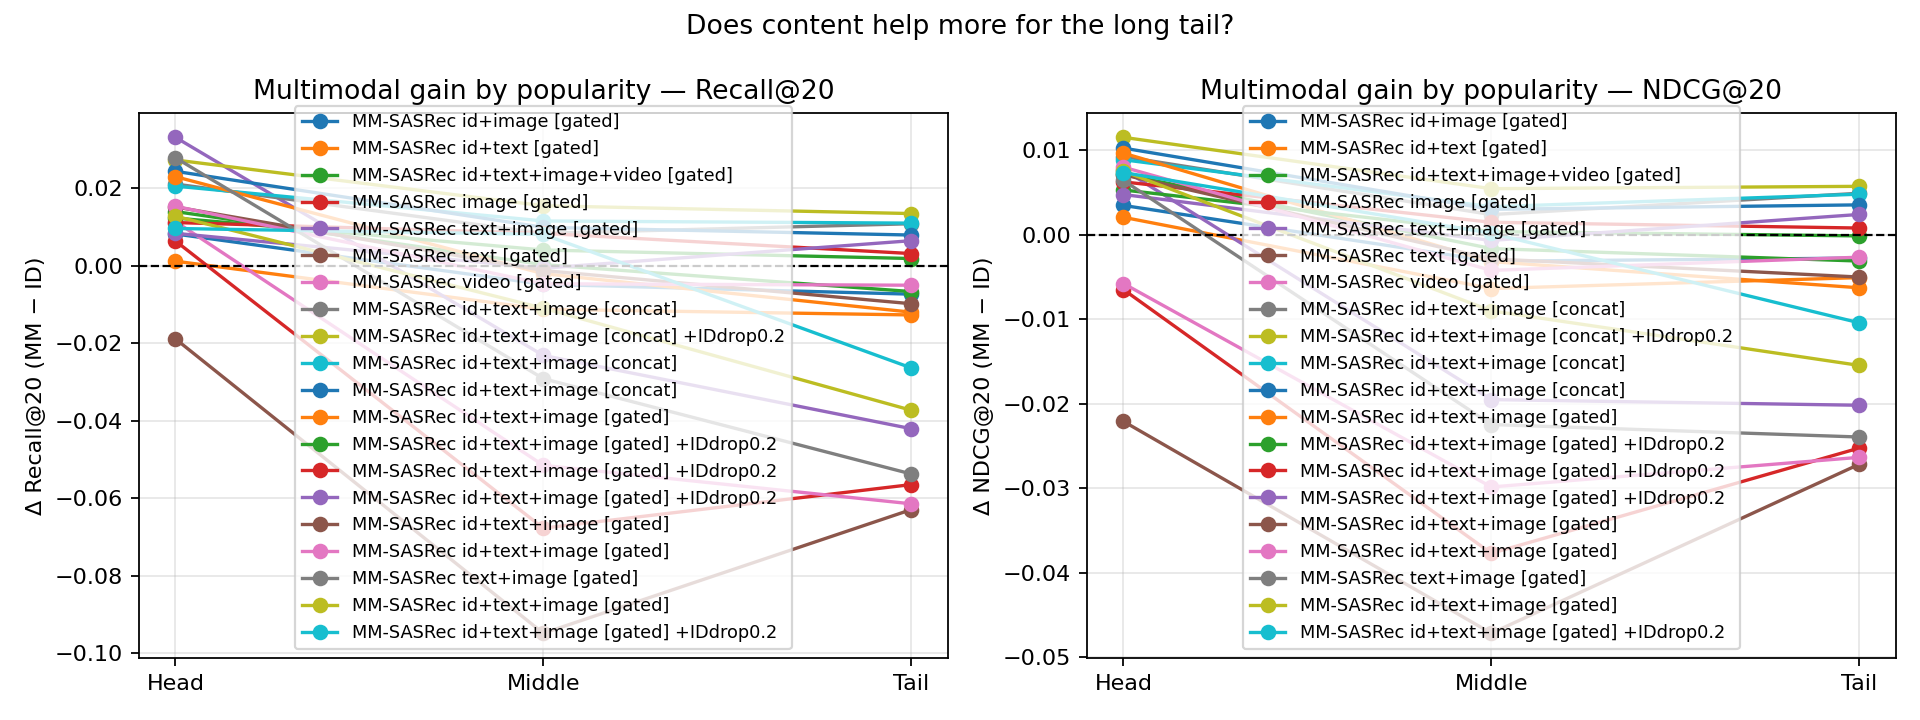
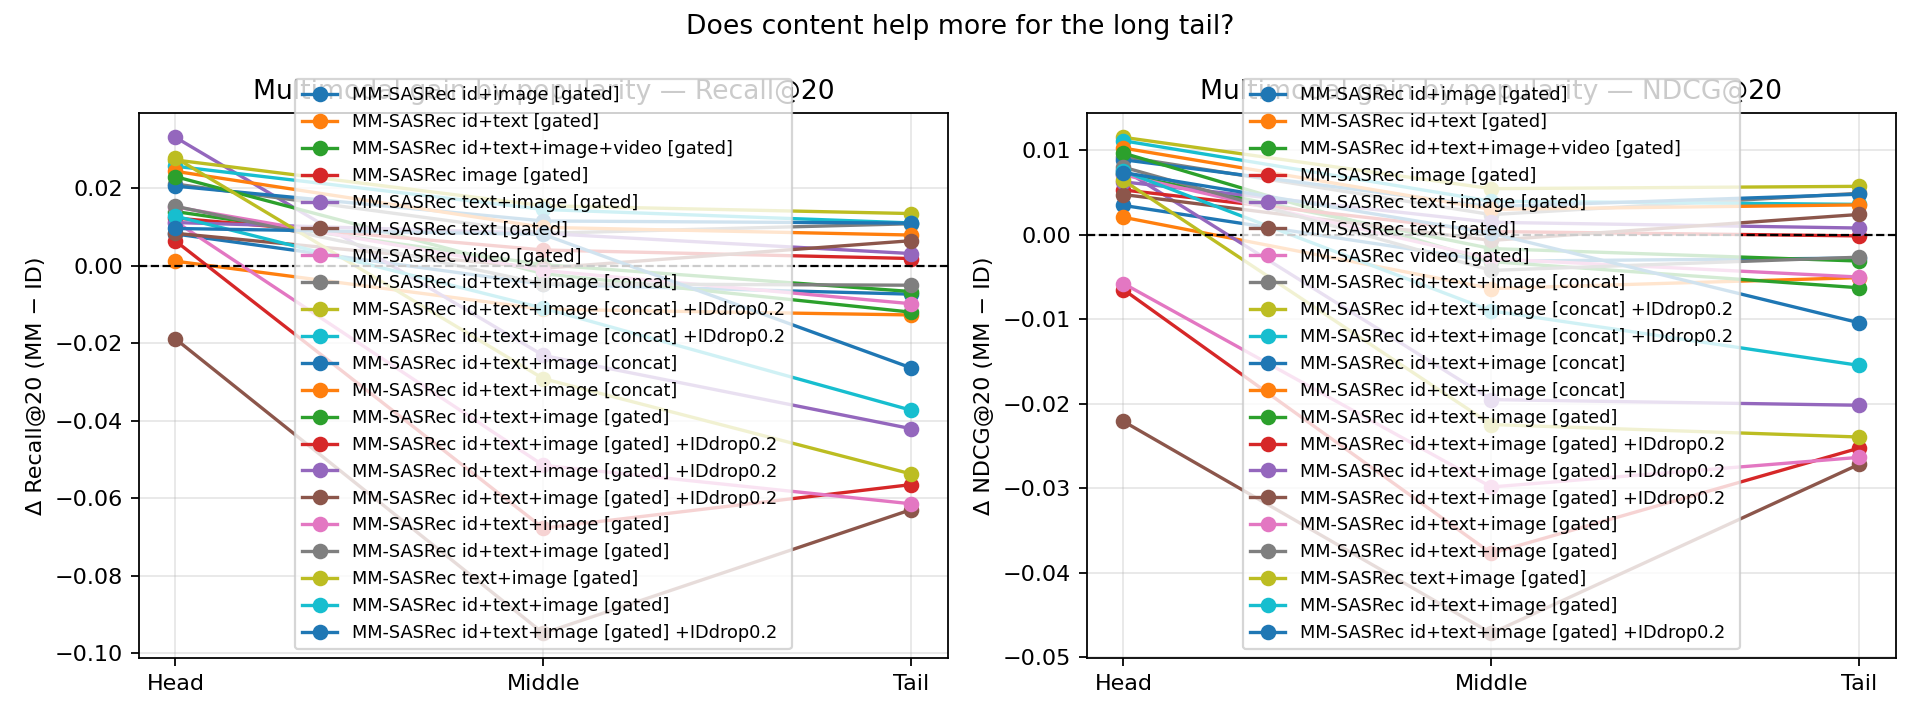
Land the concat multi-seed batch and close the phase's tables
concat is now a 3-seed replicate (0.1393 ± 0.0003, was 0.1390 from one run)
and concat+ID-dropout 0.2 has 2 seeds (0.1429 ± 0.0009); the seed-3407 run
of the latter was stopped mid-training on request and is in no table, which
the README's #seeds column and PROGRESS state rather than hide.

diff --git a/PROGRESS.md b/PROGRESS.md
@@ -9,17 +9,20 @@ The project is in a **correctness-audit / re-run phase**. Two training-side bugs
 were found and fixed, every earlier run was quarantined as legacy, a provenance
 and aggregation guard layer was added, and the **main experiment matrix, the
 modality/fusion ablation and the cold-item matrix have all been re-run to
-completion on the fixed code** (33 finished runs spanning ten commits whose
+completion on the fixed code** (35 finished runs spanning twelve commits whose
 result-determining code a human has verified to be equivalent, declared in
 `analysis/code_equivalence.json`; see below).
 
 Numbers in the README are generated from `results/tables/*.csv`; numbers in
 `results/` are produced only by runs that carry a `run_manifest.json`.
 
-Headline result on the fixed code (test Recall@20, 100 000 evaluated users,
-3 seeds each): Popular `0.0036` < BPR-MF `0.0334` < SASRec `0.1224 ± 0.0020` <
-SASRec+item-dropout 0.2 `0.1283 ± 0.0009` < MM-SASRec gated+ID-dropout 0.2
-`0.1314 ± 0.0006` < MM-SASRec concat+ID-dropout 0.2 `0.1438` (1 seed).
+Headline result on the fixed code (test Recall@20, 100 000 evaluated users):
+Popular `0.0036 ± 0.0000` < BPR-MF `0.0331 ± 0.0003` < SASRec `0.1224 ± 0.0020` <
+SASRec+item-dropout 0.2 `0.1283 ± 0.0009` < MM-SASRec gated `0.1267 ± 0.0007` <
+gated+ID-dropout 0.2 `0.1314 ± 0.0006` < concat `0.1393 ± 0.0003` <
+concat+ID-dropout 0.2 `0.1429 ± 0.0009` — every number a 3-seed mean except
+concat+ID-dropout 0.2, which has 2 seeds because the third run was stopped on
+purpose (see the experiment table).
 
 ## Completed
 
@@ -139,10 +142,14 @@ SASRec+item-dropout 0.2 `0.1283 ± 0.0009` < MM-SASRec gated+ID-dropout 0.2
   `0.0874`, video `0.0905`, text+image `0.1126`; paired with ID: id+text
   `0.1176`, id+image `0.1237`; the full gated set `0.1267 ± 0.0008` (3 seeds);
   adding video to id+text+image `0.1271` (1 seed, within the multi-seed std).
-  Fusion at the same modality set and regularisation: concat `0.1390` /
-  concat+ID-dropout 0.2 `0.1438` vs gated `0.1267` / `0.1314 ± 0.0006` — the
-  fusion choice matters more than the modality set, and this is reported as
-  measured, not folded into the gated headline.
+  Fusion at the same modality set and regularisation: concat `0.1393 ± 0.0003` /
+  concat+ID-dropout 0.2 `0.1429 ± 0.0009` (2 seeds) vs gated `0.1267 ± 0.0007` /
+  `0.1314 ± 0.0006` — the fusion choice matters more than the modality set, and
+  this is reported as measured, not folded into the gated headline. The concat
+  arms were multi-seeded precisely so this claim would not rest on one run
+  (`results/queue_rerun_ab5.txt`); the last of those four runs was stopped at
+  82/136 epochs on request, so the concat+ID-dropout mean is over seeds
+  42/2026 only and its row says `2` in the `#seeds` column.
 - **Cold-item matrix (Phase 10) — finished.** All five cold10 runs carry a
   manifest. Cold-only Recall@20 (ranking restricted to the 1 974 cold items,
   12 717 users with a cold target): Random `0.0097` (closed form `0.01013`),
@@ -166,7 +173,7 @@ SASRec+item-dropout 0.2 `0.1283 ± 0.0009` < MM-SASRec gated+ID-dropout 0.2
   in `analysis/code_equivalence.json` (class `ar-fix-2026-09-17`, reference
   `cc06c20`, 14 commits, the same reason), which is what the aggregator reads
   instead of trusting or refusing the SHA, and what the no-run-dropped pooling
-  of the 33 runs is validated against.
+  of the 35 runs is validated against.
 - **Three table-integrity bugs found and fixed (all caught by the generated
   tables, all now pinned by tests)**
   - `group_seeds()` keyed on lowercase `fusion` while `ablation.csv` writes
@@ -198,13 +205,18 @@ SASRec+item-dropout 0.2 `0.1283 ± 0.0009` < MM-SASRec gated+ID-dropout 0.2
 
 ## Verified
 
-- `pytest -q` → 170 passed (unit + regression tests for both training bugs,
+- `pytest -q` → 175 passed (unit + regression tests for both training bugs,
   provenance and aggregation guards, the declared code-equivalence mechanism,
   the README generator, the table-integrity guards, and the Random baseline's
   closed-form cold floor).
-- `python scripts/smoke_test.py` → 14 checks pass on synthetic data: ordering
+- `python scripts/smoke_test.py` re-run at the end of the phase → 14/14 checks
+  pass (`SMOKE TEST PASSED`) on synthetic data: ordering
   `popular < BPR-MF < SASRec`, losses decrease, tiny-overfit reaches < 0.15
   loss, position-wise objective beats the broadcast-objective reference.
+- The declared-equivalence closure fired on real data, not only in tests: one
+  run (`mm_concat_iddrop_s2026`) was produced on commit `7d64721e`, which the
+  file does not list, and it still pools with the class because its
+  result-determining tree is byte-identical to a member's.
 - Real-data preprocessing: base split 100 000 users / 19 738 items / 719 405
   interactions, avg length 7.19, sparsity 0.99964; cold split 1 974 cold items
   with **zero** training interactions and 25 345 cold eval targets
@@ -216,12 +228,13 @@ SASRec+item-dropout 0.2 `0.1283 ± 0.0009` < MM-SASRec gated+ID-dropout 0.2
   `run_manifest.json` reproduce exactly from the run's own `config.yaml`.
 - All 14 main-matrix manifests carry `git_sha = cc06c20` with
   `git_dirty = False` — the batch ran on one committed code version.
-- All 33 run manifests carry `git_dirty = False`, and the aggregator now
+- All 35 run manifests carry `git_dirty = False`, and the aggregator now
   *requires* that exact value before a run may be pooled under a commit-level
   identity, so a run marked dirty (or one whose status check failed, `None`)
-  cannot ride on its SHA — or on a declared class — into an average. The 33
-  runs behind the tables span ten commits, and the `src`/`scripts` diff between
-  them was read rather than assumed empty (see above).
+  cannot ride on its SHA — or on a declared class — into an average. The 35
+  runs behind the tables span twelve commits (twelve of the fourteen declared,
+  plus one — `7d64721e` — that joins through its tree hash), and the
+  `src`/`scripts` diff between them was read rather than assumed empty.
 - Gate analysis on all 6 MM runs (`gate_weights.npz` exported per run and read
   back from the checkpoint, never recomputed): the ID gate dominates
   (~0.96) and is lowest on tail items, while text/image weights rise toward the
@@ -259,13 +272,17 @@ SASRec+item-dropout 0.2 `0.1283 ± 0.0009` < MM-SASRec gated+ID-dropout 0.2
 | D: MM-SASRec gated + ID-dropout 0.2 (3 seeds) | 3 | **finished** |
 | modality / fusion ablation (base) | 9 | **finished** (`queue_rerun_ab1/2/3.txt`) |
 | cold split (Random, SASRec, content-only, gated, gated+ID-dropout) | 5 | **finished** (`queue_rerun_cold.txt`) |
-| concat fusion at seeds 2026/3407 (± ID-dropout 0.2) | 4 | **running** (`queue_rerun_ab5.txt`, GPU 0) |
+| concat fusion at seeds 2026/3407 (± ID-dropout 0.2) | 4 | **3 finished** (`queue_rerun_ab5.txt`, GPU 0): concat seeds 2026/3407 done, concat+ID-dropout seed 2026 done |
+| concat + ID-dropout 0.2 at seed 3407 | 1 | **stopped on request** at 82/136 epochs; not in any table, no manifest |
 | Semantic-ID extension | — | paused until the discriminative results stabilise |
 
 Queues: `results/queue_main_{a,b,c,d}.txt` (GPU 1/2/3/5) — finished;
-`results/queue_rerun_ab4.txt` (Popular + BPR-MF seeds 2026/3407) — finished.
-Total finished runs entering the tables: 33 (all with `run_manifest.json`),
-spanning ten commits of one declared-equivalence class.
+`results/queue_rerun_ab4.txt` (Popular + BPR-MF seeds 2026/3407) — finished;
+`results/queue_rerun_ab5.txt` — 3 of 4, the fourth killed mid-run.
+Total finished runs entering the tables: 35 (all with `run_manifest.json`),
+spanning twelve commits of one declared-equivalence class. An aborted run
+directory was left on disk under `results/runs/` (no `metrics.json`, so no
+table and no aggregator run can pick it up).
 
 ## Next highest-priority tasks
 
@@ -282,10 +299,10 @@ spanning ten commits of one declared-equivalence class.
 4. ~~Update the README's modality/fusion and cold sections once the runs land~~ —
    done; every number is generated from `results/tables/*.csv` and
    `update_readme.py --check` passes.
-5. ~~Multi-seed the concat fusion~~ — in flight: `queue_rerun_ab5.txt` adds
-   seeds 2026/3407 to concat and concat+ID-dropout 0.2 (seed 42 and 2026
-   already landed; 3407 for both settings still running). The cold
-   content-only row is still 1 seed — the cold matrix is a different table and
-   its single-seed status is stated in the generated finding rather than
-   implied away.
+5. ~~Multi-seed the concat fusion~~ — done for concat (3 seeds). Still open by
+   choice, not by accident: concat+ID-dropout 0.2 has 2 seeds (42/2026; the
+   seed-3407 run was stopped on request) and the cold content-only row has 1.
+   Both are stated in the generated tables (`#seeds`) and findings rather than
+   implied away. Re-running `queue_rerun_ab5.txt` would fill only that line
+   (the runner skips the tag that already has `metrics.json`).
 6. Semantic-ID extension (RQVAE + constrained generative decoding).

diff --git a/README.md b/README.md
@@ -192,7 +192,7 @@ as real.
 | MM-SASRec (text, gated) | 0.0413 | 0.0702 | 0.0196 | 0.0269 | 0.0151 | 0.2455 | 486785 | 1 |
 | MM-SASRec (video, gated) | 0.0570 | 0.0905 | 0.0281 | 0.0365 | 0.0217 | 0.2872 | 569985 | 1 |
 | MM-SASRec (id+text+image, concat) | 0.0960 ± 0.0002 | 0.1393 ± 0.0003 | 0.0516 ± 0.0001 | 0.0625 ± 0.0001 | 0.0412 ± 0.0001 | 0.7708 ± 0.0107 | 3212288 | 3 |
-| MM-SASRec (id+text+image, concat) + ID-dropout 0.2 | 0.0992 | 0.1438 | 0.0531 | 0.0644 | 0.0422 | 0.7503 | 3212288 | 1 |
+| MM-SASRec (id+text+image, concat) + ID-dropout 0.2 | 0.0982 ± 0.0015 | 0.1429 ± 0.0013 | 0.0524 ± 0.0011 | 0.0637 ± 0.0010 | 0.0416 ± 0.0009 | 0.7531 ± 0.0039 | 3212288 | 2 |
 | MM-SASRec (id+text+image, gated) | 0.0868 ± 0.0006 | 0.1267 ± 0.0008 | 0.0466 ± 0.0006 | 0.0567 ± 0.0006 | 0.0372 ± 0.0006 | 0.7388 ± 0.0210 | 3179395 | 3 |
 | MM-SASRec (id+text+image, gated) + ID-dropout 0.2 | 0.0902 ± 0.0012 | 0.1314 ± 0.0007 | 0.0487 ± 0.0007 | 0.0591 ± 0.0005 | 0.0390 ± 0.0005 | 0.7891 ± 0.0183 | 3179395 | 3 |
 <!-- /TABLE:OVERALL -->
@@ -209,8 +209,8 @@ rather than as a remembered number.
 - **Gain_reg** (item-dropout control) = SASRec+item-dropout 0.2 − SASRec = +0.0059 test Recall@20 over 100 000 users (3 runs vs 3 runs); NDCG@20 +0.0022.
 - **Gain_content** (over the dropout control) = MM-SASRec gated+ID-dropout 0.2 − SASRec+item-dropout 0.2 = +0.0031 test Recall@20 over 100 000 users (3 runs vs 3 runs); NDCG@20 +0.0012.
 - **Multimodal vs ID-only** = 100 000 users: Recall@20 0.1224 (ID-only) → 0.1314, NDCG@20 0.0557 → 0.0591.
-- **Fusion without ID dropout** — gated 0.1267 vs concat 0.1393 test Recall@20 vs ID-only 0.1224 (same 100 000 users); Δ vs ID-only gated +0.0043, concat +0.0169. With ID-dropout 0.2 the order is unchanged: gated 0.1314 vs concat 0.1438.
-- **Long tail** (buckets from training interactions only, rule `frequency_quantile`, 3 runs), Recall@20 — head: ID-only 0.1878 → MM 0.2031 (+0.0153), vs dropout control (0.1953) +0.0078; middle: ID-only 0.1185 → MM 0.1270 (+0.0085), vs dropout control (0.1256) +0.0014; tail: ID-only 0.0752 → MM 0.0797 (+0.0045), vs dropout control (0.0794) +0.0003. Bucket sizes: head 33 521 users, middle 21 904 users, tail 44 575 users. Concat+ID-dropout 0.2 reaches tail 0.0894 (+0.0100 vs the same dropout control).
+- **Fusion without ID dropout** — gated 0.1267 vs concat 0.1393 test Recall@20 vs ID-only 0.1224 (same 100 000 users); Δ vs ID-only gated +0.0043, concat +0.0169. With ID-dropout 0.2 the order is unchanged: gated 0.1314 vs concat 0.1429.
+- **Long tail** (buckets from training interactions only, rule `frequency_quantile`, 3 runs), Recall@20 — head: ID-only 0.1878 → MM 0.2031 (+0.0153), vs dropout control (0.1953) +0.0078; middle: ID-only 0.1185 → MM 0.1270 (+0.0085), vs dropout control (0.1256) +0.0014; tail: ID-only 0.0752 → MM 0.0797 (+0.0045), vs dropout control (0.0794) +0.0003. Bucket sizes: head 33 521 users, middle 21 904 users, tail 44 575 users. Concat+ID-dropout 0.2 reaches tail 0.0881 (+0.0087 vs the same dropout control).
 - **Cold items** (cold catalogue = 1 974 items, 12 717 users with a cold target): cold-only Recall@20 — theoretical uniform ranker 20/1974 = 0.0101, measured Random 0.0097, SASRec ID-only 0.0000, content-only MM-SASRec 0.1092, gated MM-SASRec 0.0983 (0.0789 with ID-dropout 0.2).
 _Every value above is computed from `results/tables/*.csv` by `analysis/make_readme_tables.py`; recall denominators are the evaluated test users named in each line._
 <!-- /TABLE:FINDINGS -->
@@ -239,7 +239,7 @@ The per-bucket breakdown of both is in the gain table below.
 | MM | ✓ |  | ✓ |  | gated | — | — | 0.0851 | 0.1237 | 0.0560 | 3096322 |
 | MM | ✓ | ✓ |  |  | gated | — | — | 0.0821 | 0.1176 | 0.0538 | 3046402 |
 | MM | ✓ | ✓ | ✓ |  | concat | — | — | 0.0960 ± 0.0002 | 0.1393 ± 0.0003 | 0.0625 ± 0.0001 | 3212288 |
-| MM | ✓ | ✓ | ✓ |  | concat | 0.2 | — | 0.0992 | 0.1438 | 0.0644 | 3212288 |
+| MM | ✓ | ✓ | ✓ |  | concat | 0.2 | — | 0.0982 ± 0.0015 | 0.1429 ± 0.0013 | 0.0637 ± 0.0010 | 3212288 |
 | MM | ✓ | ✓ | ✓ |  | gated | — | — | 0.0868 ± 0.0006 | 0.1267 ± 0.0008 | 0.0567 ± 0.0006 | 3179395 |
 | MM | ✓ | ✓ | ✓ |  | gated | 0.2 | — | 0.0902 ± 0.0012 | 0.1314 ± 0.0007 | 0.0591 ± 0.0005 | 3179395 |
 | MM | ✓ | ✓ | ✓ | ✓ | gated | — | — | 0.0879 | 0.1271 | 0.0574 | 3345668 |
@@ -300,7 +300,7 @@ _Popularity rule: `frequency_quantile` (training interactions only)._
 | MM-SASRec (text, gated) | 0.1736 | 0.0282 | 0.0130 | 0.0692 | 0.0089 | 0.0039 |
 | MM-SASRec (video, gated) | 0.2039 | 0.0715 | 0.0145 | 0.0856 | 0.0262 | 0.0047 |
 | MM-SASRec (id+text+image, concat) | 0.2145 ± 0.0021 | 0.1330 ± 0.0016 | 0.0858 ± 0.0017 | 0.1008 ± 0.0007 | 0.0590 ± 0.0005 | 0.0355 ± 0.0008 |
-| MM-SASRec (id+text+image, concat) + ID-dropout 0.2 | 0.2197 | 0.1385 | 0.0894 | 0.1029 | 0.0615 | 0.0368 |
+| MM-SASRec (id+text+image, concat) + ID-dropout 0.2 | 0.2189 ± 0.0011 | 0.1380 ± 0.0007 | 0.0881 ± 0.0017 | 0.1027 ± 0.0003 | 0.0608 ± 0.0010 | 0.0357 ± 0.0015 |
 | MM-SASRec (id+text+image, gated) | 0.2103 ± 0.0045 | 0.1204 ± 0.0018 | 0.0670 ± 0.0036 | 0.0996 ± 0.0013 | 0.0527 ± 0.0007 | 0.0264 ± 0.0018 |
 | MM-SASRec (id+text+image, gated) + ID-dropout 0.2 | 0.2031 ± 0.0020 | 0.1270 ± 0.0045 | 0.0797 ± 0.0024 | 0.0968 ± 0.0008 | 0.0565 ± 0.0011 | 0.0321 ± 0.0013 |
 | Popular (train-freq) | 0.0106 ± 0.0000 | 0.0000 ± 0.0000 | 0.0000 ± 0.0000 | 0.0043 ± 0.0000 | 0.0000 ± 0.0000 | 0.0000 ± 0.0000 |
@@ -321,7 +321,7 @@ _Popularity rule: `frequency_quantile` (training interactions only)._
 | MM-SASRec (text, gated) | -0.0142 | -0.0903 | -0.0622 | -0.0217 | -0.0974 | -0.0664 |
 | MM-SASRec (video, gated) | +0.0161 | -0.0470 | -0.0607 | +0.0086 | -0.0541 | -0.0649 |
 | MM-SASRec (id+text+image, concat) | +0.0267 | +0.0145 | +0.0106 | +0.0192 | +0.0074 | +0.0064 |
-| MM-SASRec (id+text+image, concat) + ID-dropout 0.2 | +0.0319 | +0.0200 | +0.0142 | +0.0244 | +0.0129 | +0.0100 |
+| MM-SASRec (id+text+image, concat) + ID-dropout 0.2 | +0.0311 | +0.0195 | +0.0129 | +0.0236 | +0.0124 | +0.0087 |
 | MM-SASRec (id+text+image, gated) | +0.0225 | +0.0019 | -0.0082 | +0.0150 | -0.0052 | -0.0124 |
 | MM-SASRec (id+text+image, gated) + ID-dropout 0.2 | +0.0153 | +0.0085 | +0.0045 | +0.0078 | +0.0014 | +0.0003 |
 <!-- /TABLE:GAIN -->
